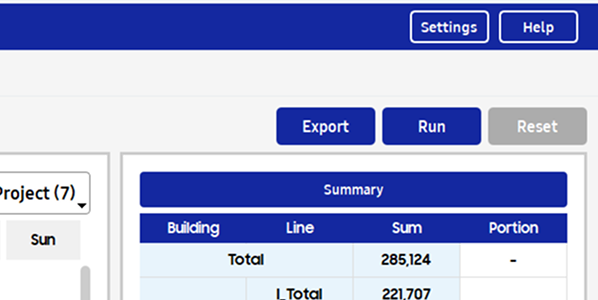
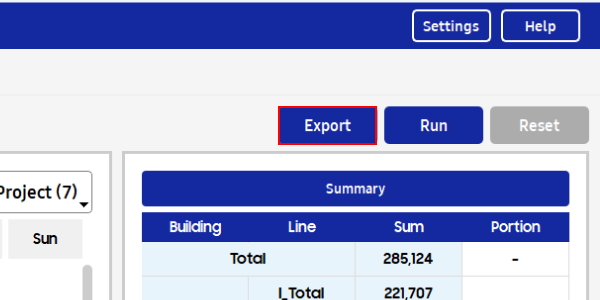
[FE] Fix : Help 최신화

diff --git a/app/views/components/help_dialogs/help_components/result_tab.py b/app/views/components/help_dialogs/help_components/result_tab.py
@@ -61,7 +61,7 @@ class ResultTabComponent(BaseTabComponent):
             number=1,
             title="View Planning Results",
             description="The results are displayed in a calendar format.",
-            image_path="app/resources/help_images/select_date.png"
+            image_path="app/resources/help_images/result_calendar.png"
         )
 
         # 팁 섹션
@@ -69,65 +69,52 @@ class ResultTabComponent(BaseTabComponent):
             number=2,
             title="View Visualization Results",
             description="Here, you can see the quantified results of the output.",
-            image_path="app/resources/help_images/select_date.png"
+            image_path="app/resources/help_images/result_visual.png"
         )
 
         section3 = HelpSectionComponent(
             number=3,
             title="Drag & Drop",
             description="Here, you can drag and drop items to move them to your desired location.",
-            image_path="app/resources/help_images/select_date.png"
+            image_path="app/resources/help_images/result_drag.png"
         )
         section3.add_list_item("If the movement affects the plan, it will be reported in the error section.")
+        section3.add_list_item("If you hold the Control key while moving, the item will be copied with a quantity of zero.")
 
         section3_1 = HelpSectionComponent(
             number="3-1",
             title="Error Section",
             description="Here, it will notify you of the incorrect part, and if you click on the selected area, you will be taken to that issue",
-            image_path="app/resources/help_images/select_date.png"
+            image_path="app/resources/help_images/result_error.png"
         )
         section3_1.add_list_item("If corrected properly, this log will disappear.")
 
         section3_2 = HelpSectionComponent(
             number="3-2",
-            title="Item Copy",
-            description="If you hold the Control key while moving, the item will be copied with a quantity of zero.",
-            image_path="app/resources/help_images/select_date.png"
-        )
-
-        section3_3 = HelpSectionComponent(
-            number="3-3",
             title="Item Delete",
             description="If you right-click the mouse, you can delete the item.",
-            image_path="app/resources/help_images/select_date.png"
-        )
-
-        section3_4 = HelpSectionComponent(
-            number="3-4",
-            title="Change Visualization",
-            description="If you perform any of the actions above, the results in the area will update in real time.",
-            image_path="app/resources/help_images/select_date.png"
+            image_path="app/resources/help_images/result_delete.png"
         )
 
         section4 = HelpSectionComponent(
             number=4,
             title="Export Results",
             description="Clicking this button allows you to save the results as an Excel file.",
-            image_path="app/resources/help_images/select_date.png"
+            image_path="app/resources/help_images/result_export.png"
         )
 
         section5_1 = HelpSectionComponent(
             number="5-1",
             title="Item Filtering",
             description="Here, you can view the filtered results.",
-            image_path="app/resources/help_images/select_date.png"
+            image_path="app/resources/help_images/result_filter.png"
         )
 
         section5_2 = HelpSectionComponent(
             number="5-2",
             title="Item Search",
             description="If you search for the model name here, the corresponding item will be found.",
-            image_path="app/resources/help_images/select_date.png"
+            image_path="app/resources/help_images/result_search.png"
         )
 
         # 섹션 프레임에 모든 섹션
@@ -136,8 +123,6 @@ class ResultTabComponent(BaseTabComponent):
         sections_layout.addWidget(section3)
         sections_layout.addWidget(section3_1)
         sections_layout.addWidget(section3_2)
-        sections_layout.addWidget(section3_3)
-        sections_layout.addWidget(section3_4)
         sections_layout.addWidget(section4)
         sections_layout.addWidget(section5_1)
         sections_layout.addWidget(section5_2)

diff --git a/app/views/components/help_dialogs/help_components/planning_tab.py b/app/views/components/help_dialogs/help_components/planning_tab.py
@@ -62,7 +62,7 @@ class PlanningTabComponent(BaseTabComponent):
             number=1,
             title="View Assignment Results",
             description="The results are displayed in a calendar format.",
-            image_path = "app/resources/help_images/select_date.png"
+            image_path = "app/resources/help_images/pre_calendar.png"
         )
 
         # 팁 섹션
@@ -70,35 +70,35 @@ class PlanningTabComponent(BaseTabComponent):
             number=2,
             title="View Summary Results",
             description="Here, you can see the quantified results of the output.",
-            image_path = "app/resources/help_images/select_date.png"
+            image_path = "app/resources/help_images/pre_summary.png"
         )
 
         section3 = HelpSectionComponent(
             number=3,
             title="Reset Results",
             description="This button resets the results when clicked.",
-            image_path="app/resources/help_images/select_date.png"
+            image_path="app/resources/help_images/pre_reset.png"
         )
 
         section4 = HelpSectionComponent(
             number=4,
             title="Export Results",
             description="Clicking this button allows you to save the results as an Excel file.",
-            image_path="app/resources/help_images/select_date.png"
+            image_path="app/resources/help_images/pre_export.png"
         )
 
         section5_1 = HelpSectionComponent(
             number="5-1",
             title="Run Second Optimization",
             description="By clicking this button, the secondary production scheduling algorithm will be executed.",
-            image_path="app/resources/help_images/select_date.png"
+            image_path="app/resources/help_images/pre_run.png"
         )
 
         section5_2 = HelpSectionComponent(
             number="5-2",
             title="Select Project",
             description="Here, you can select the projects to be reflected in the results.",
-            image_path="app/resources/help_images/select_date.png"
+            image_path="app/resources/help_images/pre_dialog.png"
         )
 
 

diff --git a/app/views/components/result_page.py b/app/views/components/result_page.py
@@ -86,14 +86,6 @@ class ResultPage(QWidget):
         title_label.setStyleSheet(f"font-family: {bold_font}; font-size: {f(21)}px; font-weight: 900;")
         title_label.setAlignment(Qt.AlignVCenter | Qt.AlignLeft)
 
-        # Import 버튼 (새로 추가)
-        import_btn = QPushButton()
-        import_btn.setText("Import")
-        import_btn.setFixedSize(w(100), h(40))
-        import_btn.setCursor(QCursor(Qt.PointingHandCursor))
-        import_btn.clicked.connect(self.load_result_file)  # 위에서 작성한 메서드 연결
-        import_btn.setStyleSheet(ResultStyles.EXPORT_BUTTON_STYLE)
-
         # Export 버튼
         export_btn = QPushButton("Export")
         export_btn.setCursor(QCursor(Qt.PointingHandCursor))
@@ -109,9 +101,8 @@ class ResultPage(QWidget):
 
         title_layout.addWidget(title_label)
         title_layout.addStretch(1)
-        title_layout.addWidget(import_btn)
         title_layout.addWidget(export_btn)
-        title_layout.addWidget(report_btn)
+        # title_layout.addWidget(report_btn)
 
         # 타이틀 프레임을 메인 레이아웃에 추가
         result_layout.addWidget(title_frame)
